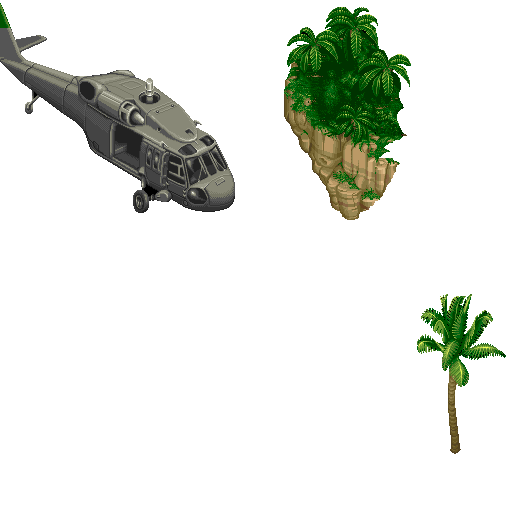
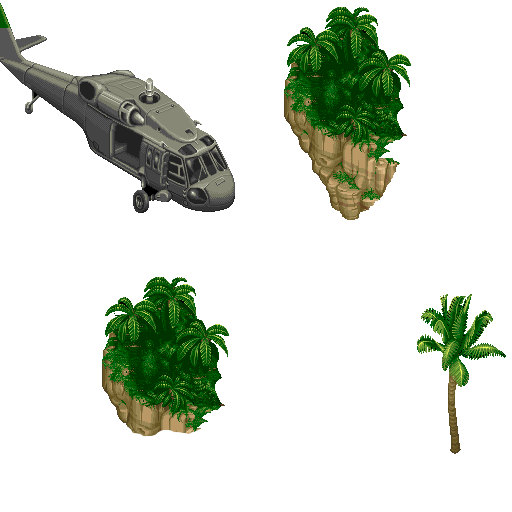
Falling Rock Implementation
Tiene algunos fallos gráficos

Changed region(s): [[0.1875, 0.5312, 0.4688, 0.875]]

diff --git a/Mercs/Source/SceneLevel1.cpp b/Mercs/Source/SceneLevel1.cpp
@@ -181,15 +181,26 @@ bool SceneLevel1::Start()
 	App->collisions->AddCollider({ 195 - 120, 480 - 1100, 100, 20 }, Collider::Type::TRENCH_WALL);
 	App->collisions->AddCollider({ 320 - 120, 530 - 1100, 100, 20 }, Collider::Type::TRENCH_WALL);
 
+	App->collisions->AddCollider({ 100 - 120, 630 - 1100, 90, 130 }, Collider::Type::WALL);
+	App->collisions->AddCollider({ 100 - 120, 760 - 1100, 50, 60 }, Collider::Type::WALL);
+
 	//Item Collisions
 	App->particles->AddParticle(App->particles->doubleShotWeapon, 570 - 120, 970 - 1100, Collider::Type::DOUBLE_SHOT_WEAPON_ID01);
 
-	// Breakable Collisions
+	// Breakable and special Collisions
 	App->breakableParticles->AddParticle(App->breakableParticles->palm, 440 - 120, 870 - 1100, Collider::Type::BREAKABLE_OBJECT);
 	App->breakableParticles->AddParticle(App->breakableParticles->palm, 505 - 120, 890 - 1100, Collider::Type::BREAKABLE_OBJECT);
 	App->breakableParticles->AddParticle(App->breakableParticles->palm, 475 - 120, 920 - 1100, Collider::Type::BREAKABLE_OBJECT);
 	App->breakableParticles->AddParticle(App->breakableParticles->palm, 410 - 120, 930 - 1100, Collider::Type::BREAKABLE_OBJECT);
 	App->breakableParticles->AddParticle(App->breakableParticles->palm, 440 - 120, 930 - 1100, Collider::Type::BREAKABLE_OBJECT);
+
+	// Event triggered particle and event triggerer collider
+	fallingWallEventDelays = 0;
+	App->breakableParticles->AddParticle(App->breakableParticles->fallingWall, 400 - 120, 440 - 1100, Collider::Type::WALL);
+	App->collisions->AddCollider({ 90 - 120, 790 - 1100, 630, 50 }, Collider::Type::EVENT_TRIGGER);
+	App->collisions->AddCollider({ 350 - 120, 650 - 1100, 120, 130 }, Collider::Type::WALL);
+	App->collisions->AddCollider({ 340 - 120, 660 - 1100, 10, 100 }, Collider::Type::WALL);
+	App->collisions->AddCollider({ 370 - 120, 630 - 1100, 60, 30 }, Collider::Type::WALL);
 
 	//App->collisions->AddCollider({ 570 - 120, 970 - 1100, 30, 30 }, Collider::Type::DOUBLE_SHOT_WEAPON_ID01);
 	// Enemies ---
@@ -263,6 +274,60 @@ Update_Status SceneLevel1::Update()
 		App->fade->FadeToBlack(this, (Module*)App->sceneIntro, 90);
 		App->fade->FadeToBlack((Module*)App->player, (Module*)App->sceneIntro, 90);
 	}
+
+	if (App->player->fallingWallEvent == true)
+	{
+		fallingWallEventDelays++;
+	}
+	if (fallingWallEventDelays > 0 && fallingWallEventDelays <= 1)
+	{
+		App->breakableParticles->fallingWall.SetToDelete();
+		App->breakableParticles->AddParticle(App->breakableParticles->fallingWallMoving, 400 - 120, 440 - 1100);
+
+		App->particles->AddParticle(App->particles->dirt, 460 - 120, 470 - 1100, Collider::Type::NONE);
+		App->particles->AddParticle(App->particles->dirt, 500 - 120, 500 - 1100, Collider::Type::NONE);
+		App->particles->AddParticle(App->particles->dirt, 520 - 120, 560 - 1100, Collider::Type::NONE);
+		App->particles->AddParticle(App->particles->dirt, 510 - 120, 610 - 1100, Collider::Type::NONE);
+		App->particles->AddParticle(App->particles->dirt, 460 - 650, 610 - 1100, Collider::Type::NONE);
+		App->particles->AddParticle(App->particles->dirt, 440 - 650, 600 - 1100, Collider::Type::NONE);
+
+		App->particles->AddParticle(App->particles->dirt, 470 - 120, 620 - 1100, Collider::Type::NONE, 10);
+		App->particles->AddParticle(App->particles->dirt, 500 - 120, 660 - 1100, Collider::Type::NONE, 15);
+		App->particles->AddParticle(App->particles->dirt, 450 - 120, 670 - 1100, Collider::Type::NONE, 20);
+		App->particles->AddParticle(App->particles->dirt, 430 - 120, 710 - 1100, Collider::Type::NONE, 20);
+		App->particles->AddParticle(App->particles->dirt, 400 - 120, 650 - 1100, Collider::Type::NONE, 25);
+		App->particles->AddParticle(App->particles->dirt, 450 - 120, 730 - 1100, Collider::Type::NONE, 25);
+		App->particles->AddParticle(App->particles->dirt, 420 - 120, 710 - 1100, Collider::Type::NONE, 25);
+		App->particles->AddParticle(App->particles->dirt, 420 - 120, 750 - 1100, Collider::Type::NONE, 30);
+		App->particles->AddParticle(App->particles->dirt, 470 - 120, 630 - 1100, Collider::Type::NONE, 30);
+		App->particles->AddParticle(App->particles->dirt, 450 - 120, 670 - 1100, Collider::Type::NONE, 35);
+		App->particles->AddParticle(App->particles->dirt, 480 - 120, 690 - 1100, Collider::Type::NONE, 35);
+		App->particles->AddParticle(App->particles->dirt, 440 - 120, 690 - 1100, Collider::Type::NONE, 35);
+		App->particles->AddParticle(App->particles->dirt, 420 - 120, 720 - 1100, Collider::Type::NONE, 40);
+		App->particles->AddParticle(App->particles->dirt, 470 - 120, 700 - 1100, Collider::Type::NONE, 40);
+		App->particles->AddParticle(App->particles->dirt, 390 - 120, 680 - 1100, Collider::Type::NONE, 45);
+		App->particles->AddParticle(App->particles->dirt, 410 - 120, 680 - 1100, Collider::Type::NONE, 45);
+		App->particles->AddParticle(App->particles->dirt, 480 - 120, 630 - 1100, Collider::Type::NONE, 50);
+		App->particles->AddParticle(App->particles->dirt, 450 - 120, 680 - 1100, Collider::Type::NONE, 55);
+
+	}
+	else if (fallingWallEventDelays > 75 && fallingWallEventDelays <= 76)
+	{
+		App->particles->AddParticle(App->particles->dirt, 350 - 120, 780 - 1100, Collider::Type::NONE);
+		App->particles->AddParticle(App->particles->dirt, 380 - 120, 790 - 1100, Collider::Type::NONE);
+		App->particles->AddParticle(App->particles->dirt, 410 - 120, 790 - 1100, Collider::Type::NONE);
+		App->particles->AddParticle(App->particles->dirt, 440 - 120, 760 - 1100, Collider::Type::NONE);
+		App->particles->AddParticle(App->particles->dirt, 450 - 650, 730 - 1100, Collider::Type::NONE);
+		App->particles->AddParticle(App->particles->dirt, 440 - 650, 690 - 1100, Collider::Type::NONE);
+		App->particles->AddParticle(App->particles->dirt, 340 - 650, 740 - 1100, Collider::Type::NONE);
+		App->particles->AddParticle(App->particles->dirt, 350 - 650, 680 - 1100, Collider::Type::NONE);
+
+		App->particles->AddParticle(App->particles->dirt, 390 - 650, 720 - 1100, Collider::Type::NONE, 5);
+		App->particles->AddParticle(App->particles->dirt, 410 - 650, 700 - 1100, Collider::Type::NONE, 5);
+
+		App->breakableParticles->AddParticle(App->breakableParticles->fallingWallEnd, 330 - 120, 630 - 1100);
+	}
+
 
 	return Update_Status::UPDATE_CONTINUE;
 }

diff --git a/Mercs/Source/ModuleBreakable.cpp b/Mercs/Source/ModuleBreakable.cpp
@@ -5,6 +5,7 @@
 #include "ModuleTextures.h"
 #include "ModuleRender.h"
 #include "ModuleCollisions.h"
+#include "SceneLevel1.h"
 
 #include "SDL/include/SDL_timer.h"
 
@@ -24,13 +25,36 @@ bool ModuleBreakable::Start()
 	LOG("Loading particles");
 	texture = App->textures->Load("Assets/Art/TileMaps/MovingAndChagingTiles.png"); // Should load a breakable object spritesheet
 
-	// Example
 	palm.anim.PushBack({ 416, 292, 90, 163 });
 	palm.speed.x = 0;
 	palm.speed.y = 0;
 	palm.lifetime = 0;
 	palm.anim.loop = false;
 	palm.anim.speed = 0.0f;
+
+	fallingWall.anim.PushBack({ 283, 0, 130, 220 });
+	fallingWall.speed.x = 0;
+	fallingWall.speed.y = 0;
+	fallingWall.lifetime = 0;
+	fallingWall.anim.loop = false;
+	fallingWall.anim.speed = 0.0f;
+
+	fallingWallMoving.anim.PushBack({ 283, 0, 130, 220 });
+	fallingWallMoving.speed.x = -1;
+	fallingWallMoving.speed.y = 2;
+	fallingWallMoving.lifetime = 75;
+	fallingWallMoving.anim.loop = false;
+	fallingWall.anim.speed = 0.0f;
+
+	fallingWallEnd.anim.PushBack({ 100, 270, 130, 170 });
+	fallingWallEnd.speed.x = 0;
+	fallingWallEnd.speed.y = 0;
+	fallingWallEnd.lifetime = 0;
+	fallingWallEnd.anim.loop = false;
+	fallingWallEnd.anim.speed = 0.0f;
+
+
+
 
 	canBeDestoryed = true;
 
@@ -79,9 +103,11 @@ void ModuleBreakable::OnCollision(Collider* c1, Collider* c2)
 		|| (c1->type != Collider::Type::BREAKABLE_OBJECT && c2->type != Collider::Type::PLAYER)
 		|| (c1->type != Collider::Type::BREAKABLE_OBJECT && c2->type != Collider::Type::ENEMY)
 		|| (c1->type != Collider::Type::BREAKABLE_OBJECT && c2->type != Collider::Type::ENEMY_BOMB)
-		|| (c1->type != Collider::Type::BREAKABLE_OBJECT && c2->type != Collider::Type::ENEMY_SHOT))
+		|| (c1->type != Collider::Type::BREAKABLE_OBJECT && c2->type != Collider::Type::ENEMY_SHOT)
+		|| c1->type != Collider::Type::NONE || (c1->type == Collider::Type::WALL && App->sceneLevel_1->fallingWallEventDelays != 0))
 	{
 		canBeDestoryed = true;
+		App->breakableParticles->fallingWall.SetToDelete();
 	}
 
 	if ((c1->type == Collider::Type::PLAYER && c2->type == Collider::Type::BREAKABLE_OBJECT)
@@ -91,7 +117,8 @@ void ModuleBreakable::OnCollision(Collider* c1, Collider* c2)
 		|| (c1->type == Collider::Type::BREAKABLE_OBJECT && c2->type == Collider::Type::PLAYER)
 		|| (c1->type == Collider::Type::BREAKABLE_OBJECT && c2->type == Collider::Type::ENEMY)
 		|| (c1->type == Collider::Type::BREAKABLE_OBJECT && c2->type == Collider::Type::ENEMY_BOMB)
-		|| (c1->type == Collider::Type::BREAKABLE_OBJECT && c2->type == Collider::Type::ENEMY_SHOT))
+		|| (c1->type == Collider::Type::BREAKABLE_OBJECT && c2->type == Collider::Type::ENEMY_SHOT)
+		|| c1->type == Collider::Type::NONE || (c1->type == Collider::Type::WALL && App->sceneLevel_1->fallingWallEventDelays == 0))
 	{
 		canBeDestoryed = false;
 	}

diff --git a/Mercs/Source/ModulePlayer.cpp b/Mercs/Source/ModulePlayer.cpp
@@ -161,6 +161,8 @@ bool ModulePlayer::Start()
 	playerDelay = 0;
 	playerFPS = 0;
 
+	fallingWallEvent = false;
+
 	collectedItemID = 0; // ID 0 is single shot weapon, ID 1 is dual shot weapon, ID 2 is triple shot weapon (only ID 0 and 1 are used in level 1)
 	//collectedMegaBombsNumber = 1; // Player starts with 1 MegaBomb available -=(MegaBomb mechanic is not implemented yet so it wont have any effect for now)=-
 
@@ -415,7 +417,7 @@ Update_Status ModulePlayer::Update()
 
 						if (position.x + 70 > App->render->camera.x / SCREEN_SIZE + App->render->camera.w - horizontalMargin)
 						{
-							App->render->camera.x += speedX + 2;
+							App->render->camera.x += speedX + 1;
 						}
 
 					}
@@ -428,7 +430,7 @@ Update_Status ModulePlayer::Update()
 					if (App->render->camera.x / SCREEN_SIZE - App->render->camera.w - speedX < 1242)
 					{
 
-						if (position.x - 70 > App->render->camera.x / SCREEN_SIZE - App->render->camera.w + horizontalMargin)
+						if (position.x - 65 > App->render->camera.x / SCREEN_SIZE - App->render->camera.w + horizontalMargin)
 						{
 							App->render->camera.x -= speedX + 1;
 						}
@@ -442,7 +444,7 @@ Update_Status ModulePlayer::Update()
 				if (App->render->camera.y <= 1156 * SCREEN_SIZE)
 				{
 
-					if (position.y - 50 < (App->render->camera.y / SCREEN_SIZE + verticalMargin)) App->render->camera.y -= speedY + 2;
+					if (position.y - 50 < (App->render->camera.y / SCREEN_SIZE + verticalMargin)) App->render->camera.y -= speedY + 1;
 				}
 			}
 
@@ -910,5 +912,10 @@ void ModulePlayer::OnCollision(Collider* c1, Collider* c2)
 	{
 		collectedItemID = 1;
 		App->particles->doubleShotWeapon.SetToDelete();
+	}
+
+	if (c1->type == Collider::Type::PLAYER && c2->type == Collider::Type::EVENT_TRIGGER)
+	{
+		fallingWallEvent = true;
 	}
 }

diff --git a/Mercs/Source/ModuleParticles.cpp b/Mercs/Source/ModuleParticles.cpp
@@ -41,6 +41,17 @@ bool ModuleParticles::Start()
 	shadow.anim.loop = false;
 	shadow.anim.speed = 0.25f;
 
+	// Dirt particle
+	dirt.anim.PushBack({ 246, 322, 30, 30 });
+	dirt.anim.PushBack({ 282, 322, 30, 30 });
+	dirt.anim.PushBack({ 310, 322, 30, 30 });
+	dirt.anim.PushBack({ 336, 322, 30, 30 });
+	dirt.anim.PushBack({ 361, 322, 30, 30 });
+	dirt.speed.x = 0;
+	dirt.speed.y = 0;
+	dirt.anim.loop = false;
+	dirt.anim.speed = 0.15f;
+
 	// Explosion particle
 	explosion.anim.PushBack({ 201, 152, 32, 30 });
 	explosion.anim.PushBack({ 251, 296, 32, 30 });

diff --git a/Mercs/Source/SceneLevel1.h b/Mercs/Source/SceneLevel1.h
@@ -41,6 +41,10 @@ public:
 	SDL_Texture* MovingAndChangingTilesTexture = nullptr;
 
 	int SceneCounter;
+	int fallingWallEventDelays;
+
+	int fallingWallX;
+	int fallingWallY;
 };
 
 #endif

diff --git a/Mercs/Source/ModuleBreakable.h b/Mercs/Source/ModuleBreakable.h
@@ -57,6 +57,9 @@ public:
 
 	//Template particle for ...
 	Particle palm;
+	Particle fallingWall;
+	Particle fallingWallMoving;
+	Particle fallingWallEnd;
 	
 
 private:

diff --git a/Mercs/Source/ModulePlayer.h b/Mercs/Source/ModulePlayer.h
@@ -130,6 +130,10 @@ public:
 	int time;
 	int playerFPS;
 
+	//Events
+
+	bool fallingWallEvent;
+
 };
 
 #endif //!__MODULE_PLAYER_H__
